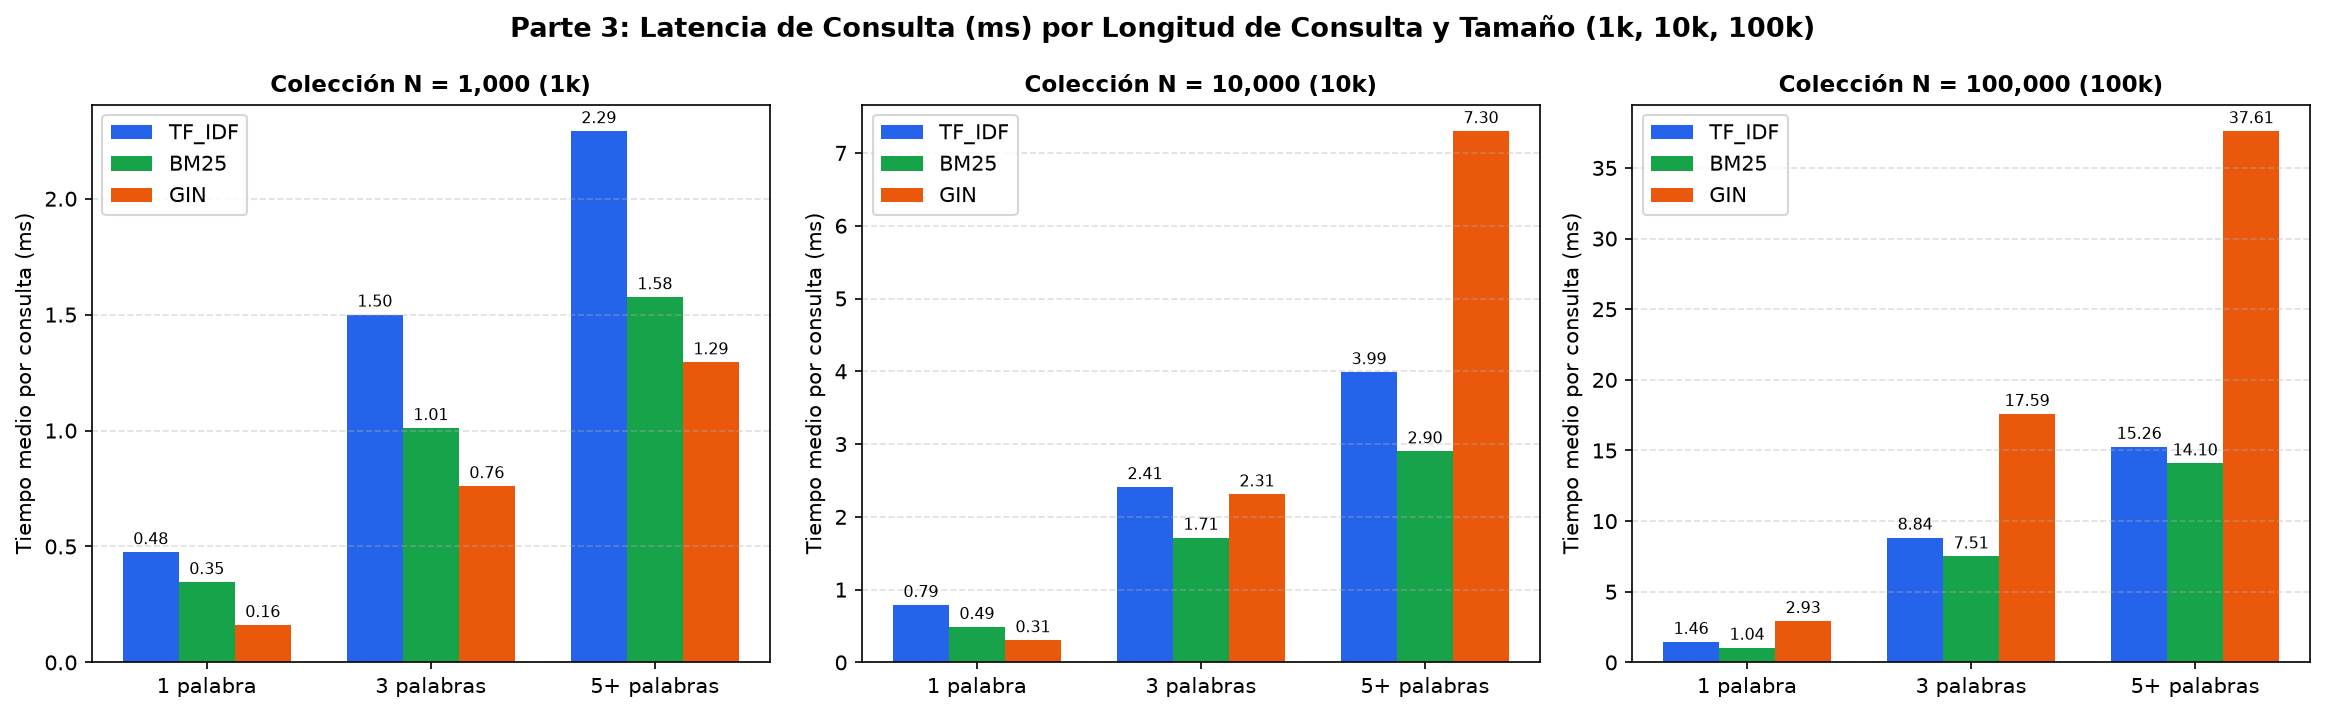
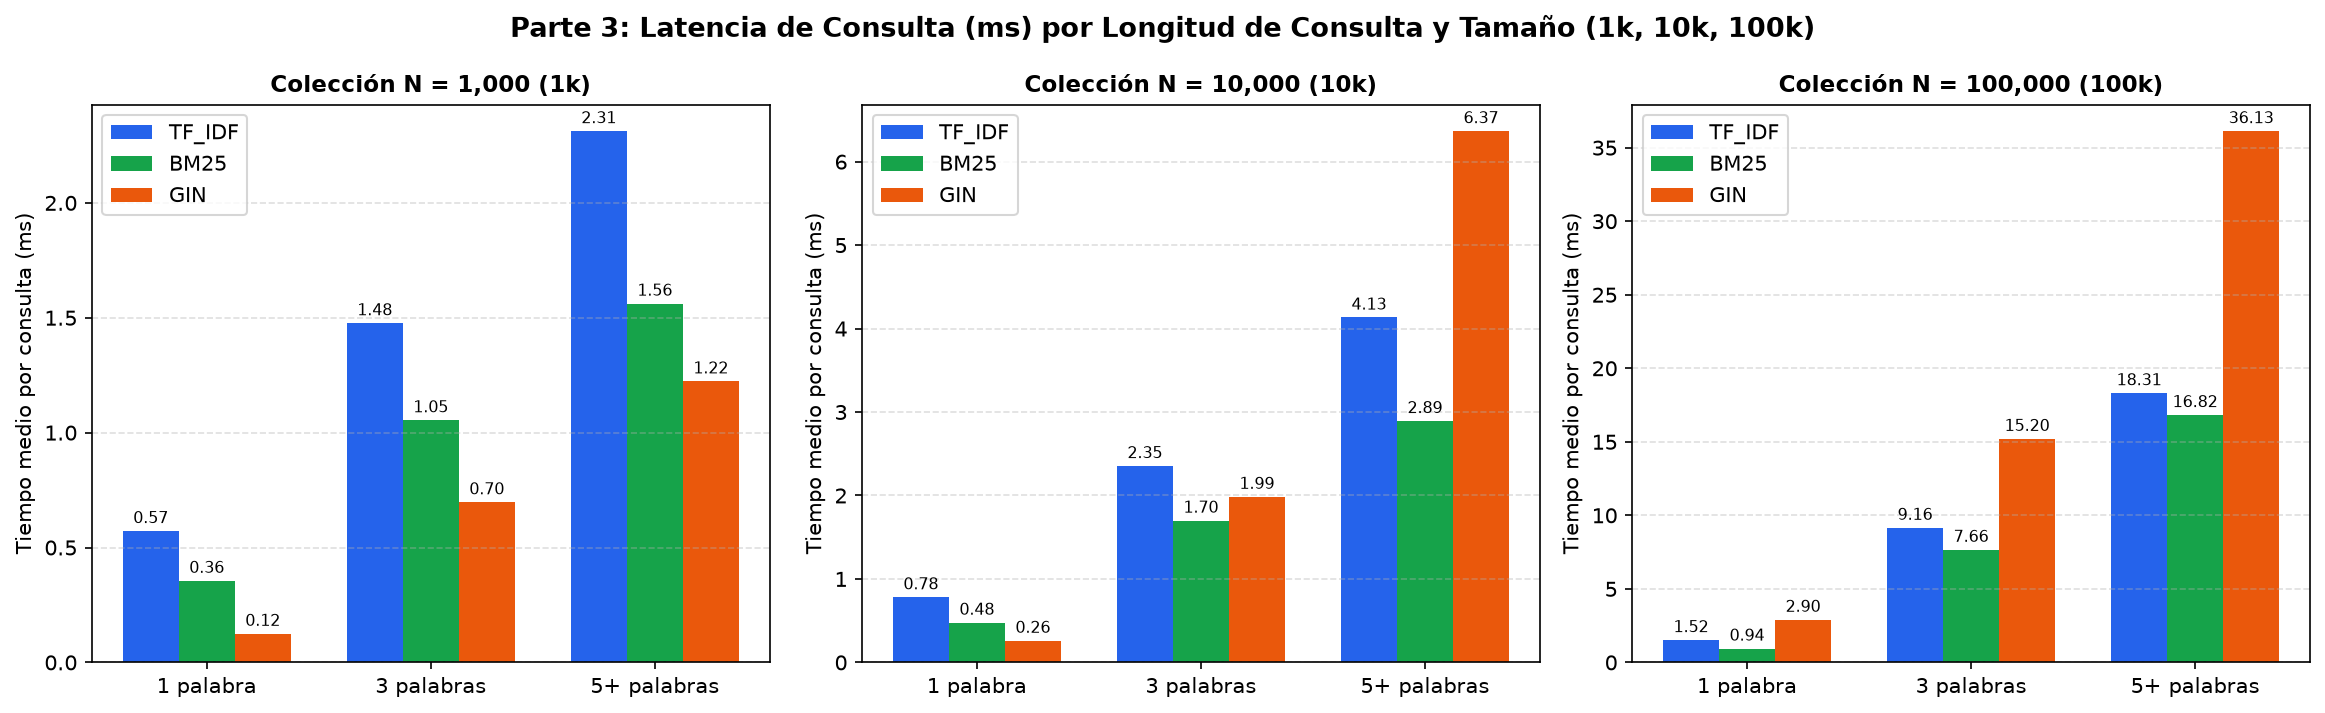
feat: last changes on frontend

diff --git a/query/conexion.py b/query/conexion.py
@@ -18,6 +18,7 @@ from common.record import Record
 from common.types import Column, DataType, Schema
 from engine.external import external_group_by, external_hash_join, external_sort
 from index.bm25 import BM25
+from index.vector.exacto import IndiceExacto
 from index.vector.metricas import puntaje as _puntaje_vectorial
 from index.vector.registro import CONSTRUCTORES as _CONSTRUCTORES_VECTORIALES
 from index.bplus_tree import BPlusTree, DuplicateKey
@@ -934,6 +935,13 @@ class Conexion:
             if indice.metodo == metodo:
                 self._configurar_vectorial(info, columna, indice)
                 return columna, indice, False
+        # IndiceHNSW e IndiceIVF heredan de IndiceExacto y conservan los vectores y RIDs,
+        # por lo que permiten ejecutar k-NN secuencial (EXACTO) sin cambiar el indice de la tabla.
+        if metodo == "EXACTO":
+            for columna, indice in disponibles:
+                if isinstance(indice, IndiceExacto):
+                    self._configurar_vectorial(info, columna, indice)
+                    return columna, indice, False
         # sin indice del metodo pedido se recorre todo con el k-NN exacto
         for columna, indice in disponibles:
             if indice.metodo == "EXACTO":
@@ -970,8 +978,13 @@ class Conexion:
 
         # con otros filtros en el WHERE se piden todos los vecinos y se recorta a k despues de filtrar
         con_filtros = len(condiciones) > 1
+        k_busqueda = len(indice) if con_filtros else similar.k
+        usar_exacto = (similar.metodo == "EXACTO") or es_respaldo
         t1 = time.perf_counter()
-        hallados = indice.buscar(vector, len(indice) if con_filtros else similar.k, metrica)
+        if usar_exacto and isinstance(indice, IndiceExacto):
+            hallados = IndiceExacto.buscar(indice, vector, k_busqueda, metrica)
+        else:
+            hallados = indice.buscar(vector, k_busqueda, metrica)
         t_buscar = time.perf_counter() - t1
 
         filas = []
@@ -994,7 +1007,7 @@ class Conexion:
             filas.reverse()
         orden_ya_resuelto = orden is None or orden_por_puntaje
 
-        usado = "k-NN exacto" if es_respaldo else similar.metodo
+        usado = "k-NN exacto" if usar_exacto else similar.metodo
         aviso = f" (no hay indice {similar.metodo}: se uso el k-NN exacto)" if es_respaldo else ""
         filtro = " + filtro WHERE" if con_filtros else ""
         self.plan.append(f"busqueda por similitud ({usado}) sobre '{info.nombre}.{columna}' (k {similar.k}; metrica {metrica}; archivo '{similar.archivo}'; {len(filas)} fila(s)){aviso}{filtro}")
@@ -1005,7 +1018,7 @@ class Conexion:
             "archivo_consulta": similar.archivo,
             "k": similar.k,
             "indice": similar.metodo,
-            "indice_usado": indice.metodo,
+            "indice_usado": "EXACTO" if usar_exacto else indice.metodo,
             "metrica": metrica,
             "key_column": info.key_column,
             "extraccion": {

diff --git a/bench/results/vector_resumen.md b/bench/results/vector_resumen.md
@@ -4,42 +4,42 @@
 
 | Dominio | N | Dim | Métrica | Índice | Parámetros | Construcción (s) | Memoria (MB) | Consulta (ms/q) | Speedup | Recall@10 | Origen |
 |:---|---:|---:|:---|:---|:---|---:|---:|---:|---:|---:|:---|
-| **imagen** | 1,000 | 512 | `euclidean` | **EXACTO** | `secuencial` | 0.0000 | 1.95 | 0.0748 | 1.00x | 1.0000 | BoVW real (SIFT) |
-| **imagen** | 1,000 | 512 | `euclidean` | **HNSW** | `M=16, efC=200, efS=32` | 0.0524 | 2.09 | 0.0242 | 3.09x | 0.9680 | BoVW real (SIFT) |
-| **imagen** | 1,000 | 512 | `euclidean` | **IVF** | `nlist=32, nprobe=4` | 0.0029 | 2.02 | 0.0230 | 3.25x | 0.9310 | BoVW real (SIFT) |
-| **imagen** | 1,000 | 512 | `cosine` | **EXACTO** | `secuencial` | 0.0000 | 1.95 | 0.0830 | 1.00x | 1.0000 | BoVW real (SIFT) |
-| **imagen** | 1,000 | 512 | `cosine` | **HNSW** | `M=16, efC=200, efS=16` | 0.0610 | 2.09 | 0.0234 | 3.55x | 0.8220 | BoVW real (SIFT) |
-| **imagen** | 1,000 | 512 | `cosine` | **IVF** | `nlist=32, nprobe=16` | 0.0023 | 2.02 | 0.0333 | 2.49x | 0.9830 | BoVW real (SIFT) |
-| **imagen** | 10,000 | 512 | `euclidean` | **EXACTO** | `secuencial` | 0.0000 | 19.53 | 0.6995 | 1.00x | 1.0000 | BoVW real (SIFT) |
-| **imagen** | 10,000 | 512 | `euclidean` | **HNSW** | `M=16, efC=200, efS=64` | 0.9483 | 20.91 | 0.0508 | 13.77x | 0.9110 | BoVW real (SIFT) |
-| **imagen** | 10,000 | 512 | `euclidean` | **IVF** | `nlist=100, nprobe=8` | 0.0232 | 19.80 | 0.1339 | 5.22x | 0.9740 | BoVW real (SIFT) |
-| **imagen** | 10,000 | 512 | `cosine` | **EXACTO** | `secuencial` | 0.0000 | 19.53 | 0.7059 | 1.00x | 1.0000 | BoVW real (SIFT) |
-| **imagen** | 10,000 | 512 | `cosine` | **HNSW** | `M=16, efC=200, efS=32` | 1.2939 | 20.91 | 0.0465 | 15.19x | 0.7500 | BoVW real (SIFT) |
-| **imagen** | 10,000 | 512 | `cosine` | **IVF** | `nlist=100, nprobe=16` | 0.0294 | 19.80 | 0.0811 | 8.71x | 0.8220 | BoVW real (SIFT) |
-| **imagen** | 100,000 | 512 | `euclidean` | **EXACTO** | `secuencial` | 0.0000 | 195.31 | 7.1313 | 1.00x | 1.0000 | BoVW real (SIFT) |
-| **imagen** | 100,000 | 512 | `euclidean` | **HNSW** | `M=16, efC=200, efS=256` | 28.1018 | 209.08 | 0.3617 | 19.72x | 0.6890 | BoVW real (SIFT) |
-| **imagen** | 100,000 | 512 | `euclidean` | **IVF** | `nlist=316, nprobe=32` | 0.4813 | 196.70 | 1.1905 | 5.99x | 0.8070 | BoVW real (SIFT) |
-| **imagen** | 100,000 | 512 | `cosine` | **EXACTO** | `secuencial` | 0.0000 | 195.31 | 7.0848 | 1.00x | 1.0000 | BoVW real (SIFT) |
-| **imagen** | 100,000 | 512 | `cosine` | **HNSW** | `M=16, efC=200, efS=128` | 38.0121 | 209.08 | 0.3959 | 17.90x | 0.7830 | BoVW real (SIFT) |
-| **imagen** | 100,000 | 512 | `cosine` | **IVF** | `nlist=316, nprobe=32` | 0.5142 | 196.70 | 0.4605 | 15.38x | 0.8080 | BoVW real (SIFT) |
-| **audio** | 1,000 | 256 | `euclidean` | **EXACTO** | `secuencial` | 0.0000 | 0.98 | 0.0424 | 1.00x | 1.0000 | BoAW real (MFCC) |
-| **audio** | 1,000 | 256 | `euclidean` | **HNSW** | `M=16, efC=200, efS=32` | 0.0417 | 1.11 | 0.0179 | 2.37x | 0.9600 | BoAW real (MFCC) |
-| **audio** | 1,000 | 256 | `euclidean` | **IVF** | `nlist=32, nprobe=4` | 0.0022 | 1.02 | 0.0150 | 2.84x | 0.9590 | BoAW real (MFCC) |
-| **audio** | 1,000 | 256 | `cosine` | **EXACTO** | `secuencial` | 0.0000 | 0.98 | 0.0499 | 1.00x | 1.0000 | BoAW real (MFCC) |
-| **audio** | 1,000 | 256 | `cosine` | **HNSW** | `M=16, efC=200, efS=16` | 0.0506 | 1.11 | 0.0190 | 2.63x | 0.8640 | BoAW real (MFCC) |
-| **audio** | 1,000 | 256 | `cosine` | **IVF** | `nlist=32, nprobe=16` | 0.0025 | 1.02 | 0.0214 | 2.33x | 0.9850 | BoAW real (MFCC) |
-| **audio** | 10,000 | 256 | `euclidean` | **EXACTO** | `secuencial` | 0.0000 | 9.77 | 0.2918 | 1.00x | 1.0000 | BoAW real (MFCC) |
-| **audio** | 10,000 | 256 | `euclidean` | **HNSW** | `M=16, efC=200, efS=64` | 0.7759 | 11.14 | 0.0371 | 7.87x | 0.9890 | BoAW real (MFCC) |
-| **audio** | 10,000 | 256 | `euclidean` | **IVF** | `nlist=100, nprobe=16` | 0.0167 | 9.94 | 0.0927 | 3.15x | 0.9950 | BoAW real (MFCC) |
-| **audio** | 10,000 | 256 | `cosine` | **EXACTO** | `secuencial` | 0.0000 | 9.77 | 0.2971 | 1.00x | 1.0000 | BoAW real (MFCC) |
-| **audio** | 10,000 | 256 | `cosine` | **HNSW** | `M=16, efC=200, efS=32` | 0.8765 | 11.14 | 0.0321 | 9.24x | 0.9890 | BoAW real (MFCC) |
-| **audio** | 10,000 | 256 | `cosine` | **IVF** | `nlist=100, nprobe=16` | 0.0160 | 9.94 | 0.0402 | 7.39x | 0.9540 | BoAW real (MFCC) |
-| **audio** | 100,000 | 256 | `euclidean` | **EXACTO** | `secuencial` | 0.0000 | 97.66 | 3.0207 | 1.00x | 1.0000 | BoAW real (MFCC) |
-| **audio** | 100,000 | 256 | `euclidean` | **HNSW** | `M=16, efC=200, efS=32` | 15.1696 | 111.42 | 0.0430 | 70.28x | 0.9590 | BoAW real (MFCC) |
-| **audio** | 100,000 | 256 | `euclidean` | **IVF** | `nlist=316, nprobe=32` | 0.3122 | 98.73 | 0.4286 | 7.05x | 0.9700 | BoAW real (MFCC) |
-| **audio** | 100,000 | 256 | `cosine` | **EXACTO** | `secuencial` | 0.0000 | 97.66 | 3.3944 | 1.00x | 1.0000 | BoAW real (MFCC) |
-| **audio** | 100,000 | 256 | `cosine` | **HNSW** | `M=16, efC=200, efS=32` | 16.0475 | 111.42 | 0.0459 | 73.89x | 0.9700 | BoAW real (MFCC) |
-| **audio** | 100,000 | 256 | `cosine` | **IVF** | `nlist=316, nprobe=4` | 0.3023 | 98.73 | 0.0364 | 93.16x | 0.9120 | BoAW real (MFCC) |
+| **imagen** | 1,000 | 512 | `euclidean` | **EXACTO** | `secuencial` | 0.0000 | 1.95 | 0.0787 | 1.00x | 1.0000 | BoVW real (SIFT) |
+| **imagen** | 1,000 | 512 | `euclidean` | **HNSW** | `M=16, efC=200, efS=32` | 0.0527 | 2.09 | 0.0218 | 3.60x | 0.9760 | BoVW real (SIFT) |
+| **imagen** | 1,000 | 512 | `euclidean` | **IVF** | `nlist=32, nprobe=4` | 0.0038 | 2.02 | 0.0232 | 3.40x | 0.9520 | BoVW real (SIFT) |
+| **imagen** | 1,000 | 512 | `cosine` | **EXACTO** | `secuencial` | 0.0000 | 1.95 | 0.0845 | 1.00x | 1.0000 | BoVW real (SIFT) |
+| **imagen** | 1,000 | 512 | `cosine` | **HNSW** | `M=16, efC=200, efS=16` | 0.0599 | 2.09 | 0.0216 | 3.91x | 0.9550 | BoVW real (SIFT) |
+| **imagen** | 1,000 | 512 | `cosine` | **IVF** | `nlist=32, nprobe=16` | 0.0023 | 2.02 | 0.0314 | 2.69x | 0.9910 | BoVW real (SIFT) |
+| **imagen** | 10,000 | 512 | `euclidean` | **EXACTO** | `secuencial` | 0.0000 | 19.53 | 0.6975 | 1.00x | 1.0000 | BoVW real (SIFT) |
+| **imagen** | 10,000 | 512 | `euclidean` | **HNSW** | `M=16, efC=200, efS=64` | 0.9477 | 20.91 | 0.0490 | 14.24x | 0.9640 | BoVW real (SIFT) |
+| **imagen** | 10,000 | 512 | `euclidean` | **IVF** | `nlist=100, nprobe=8` | 0.0246 | 19.80 | 0.1161 | 6.01x | 0.9720 | BoVW real (SIFT) |
+| **imagen** | 10,000 | 512 | `cosine` | **EXACTO** | `secuencial` | 0.0000 | 19.53 | 0.7179 | 1.00x | 1.0000 | BoVW real (SIFT) |
+| **imagen** | 10,000 | 512 | `cosine` | **HNSW** | `M=16, efC=200, efS=32` | 1.2537 | 20.91 | 0.0415 | 17.32x | 0.9490 | BoVW real (SIFT) |
+| **imagen** | 10,000 | 512 | `cosine` | **IVF** | `nlist=100, nprobe=16` | 0.0249 | 19.80 | 0.0689 | 10.42x | 0.9490 | BoVW real (SIFT) |
+| **imagen** | 100,000 | 512 | `euclidean` | **EXACTO** | `secuencial` | 0.0000 | 195.31 | 6.9082 | 1.00x | 1.0000 | BoVW real (SIFT) |
+| **imagen** | 100,000 | 512 | `euclidean` | **HNSW** | `M=16, efC=200, efS=256` | 24.8400 | 209.08 | 0.4428 | 15.60x | 0.9540 | BoVW real (SIFT) |
+| **imagen** | 100,000 | 512 | `euclidean` | **IVF** | `nlist=316, nprobe=32` | 0.4266 | 196.70 | 1.0137 | 6.81x | 0.9810 | BoVW real (SIFT) |
+| **imagen** | 100,000 | 512 | `cosine` | **EXACTO** | `secuencial` | 0.0000 | 195.31 | 6.9394 | 1.00x | 1.0000 | BoVW real (SIFT) |
+| **imagen** | 100,000 | 512 | `cosine` | **HNSW** | `M=16, efC=200, efS=128` | 35.4688 | 209.08 | 0.3125 | 22.20x | 0.9610 | BoVW real (SIFT) |
+| **imagen** | 100,000 | 512 | `cosine` | **IVF** | `nlist=316, nprobe=32` | 0.4026 | 196.70 | 0.3643 | 19.05x | 0.9410 | BoVW real (SIFT) |
+| **audio** | 1,000 | 256 | `euclidean` | **EXACTO** | `secuencial` | 0.0000 | 0.98 | 0.0464 | 1.00x | 1.0000 | BoAW real (MFCC) |
+| **audio** | 1,000 | 256 | `euclidean` | **HNSW** | `M=16, efC=200, efS=32` | 0.0391 | 1.11 | 0.0140 | 3.33x | 0.9000 | BoAW real (MFCC) |
+| **audio** | 1,000 | 256 | `euclidean` | **IVF** | `nlist=32, nprobe=4` | 0.0018 | 1.02 | 0.0158 | 2.93x | 0.8000 | BoAW real (MFCC) |
+| **audio** | 1,000 | 256 | `cosine` | **EXACTO** | `secuencial` | 0.0000 | 0.98 | 0.0508 | 1.00x | 1.0000 | BoAW real (MFCC) |
+| **audio** | 1,000 | 256 | `cosine` | **HNSW** | `M=16, efC=200, efS=16` | 0.0493 | 1.11 | 0.0160 | 3.18x | 1.0000 | BoAW real (MFCC) |
+| **audio** | 1,000 | 256 | `cosine` | **IVF** | `nlist=32, nprobe=16` | 0.0016 | 1.02 | 0.0210 | 2.41x | 1.0000 | BoAW real (MFCC) |
+| **audio** | 10,000 | 256 | `euclidean` | **EXACTO** | `secuencial` | 0.0000 | 9.77 | 0.2450 | 1.00x | 1.0000 | BoAW real (MFCC) |
+| **audio** | 10,000 | 256 | `euclidean` | **HNSW** | `M=16, efC=200, efS=64` | 0.7440 | 11.14 | 0.0198 | 12.35x | 1.0000 | BoAW real (MFCC) |
+| **audio** | 10,000 | 256 | `euclidean` | **IVF** | `nlist=100, nprobe=16` | 0.0154 | 9.94 | 0.0912 | 2.68x | 0.9000 | BoAW real (MFCC) |
+| **audio** | 10,000 | 256 | `cosine` | **EXACTO** | `secuencial` | 0.0000 | 9.77 | 0.3582 | 1.00x | 1.0000 | BoAW real (MFCC) |
+| **audio** | 10,000 | 256 | `cosine` | **HNSW** | `M=16, efC=200, efS=32` | 0.8644 | 11.14 | 0.0199 | 17.99x | 1.0000 | BoAW real (MFCC) |
+| **audio** | 10,000 | 256 | `cosine` | **IVF** | `nlist=100, nprobe=16` | 0.0149 | 9.94 | 0.0363 | 9.88x | 1.0000 | BoAW real (MFCC) |
+| **audio** | 100,000 | 256 | `euclidean` | **EXACTO** | `secuencial` | 0.0000 | 97.66 | 2.7118 | 1.00x | 1.0000 | BoAW real (MFCC) |
+| **audio** | 100,000 | 256 | `euclidean` | **HNSW** | `M=16, efC=200, efS=32` | 13.5672 | 111.42 | 0.0127 | 213.40x | 1.0000 | BoAW real (MFCC) |
+| **audio** | 100,000 | 256 | `euclidean` | **IVF** | `nlist=316, nprobe=32` | 0.3011 | 98.73 | 0.4149 | 6.54x | 1.0000 | BoAW real (MFCC) |
+| **audio** | 100,000 | 256 | `cosine` | **EXACTO** | `secuencial` | 0.0000 | 97.66 | 3.4365 | 1.00x | 1.0000 | BoAW real (MFCC) |
+| **audio** | 100,000 | 256 | `cosine` | **HNSW** | `M=16, efC=200, efS=32` | 14.6503 | 111.42 | 0.0193 | 178.13x | 1.0000 | BoAW real (MFCC) |
+| **audio** | 100,000 | 256 | `cosine` | **IVF** | `nlist=316, nprobe=4` | 0.2704 | 98.73 | 0.0316 | 108.66x | 1.0000 | BoAW real (MFCC) |
 
 ## 2. Comparación de Índices Vectoriales: Ventajas, Desventajas y Cuándo Usar Cada Uno
 

diff --git a/bench/results/texto_resumen.md b/bench/results/texto_resumen.md
@@ -6,44 +6,44 @@
 
 | N | Índice Invertido | Construcción (s) | Espacio en Disco (MB) | Términos | Postings | Modo |
 |---:|:---|---:|---:|---:|---:|:---|
-| 1,000 | **SPIMI (Propio)** | 0.244 | 0.90 | 12,879 | 82,538 | SPIMI nativo |
-| 1,000 | **GIN (PostgreSQL)** | 0.040 | 1.14 | 12,879 | 82,538 | PostgreSQL real |
-| 10,000 | **SPIMI (Propio)** | 2.085 | 7.66 | 49,643 | 856,786 | SPIMI nativo |
-| 10,000 | **GIN (PostgreSQL)** | 0.246 | 6.87 | 49,643 | 856,786 | PostgreSQL real |
-| 100,000 | **SPIMI (Propio)** | 20.125 | 70.82 | 192,011 | 8,554,203 | SPIMI nativo |
-| 100,000 | **GIN (PostgreSQL)** | 2.793 | 49.20 | 192,011 | 8,554,203 | PostgreSQL real |
+| 1,000 | **SPIMI (Propio)** | 0.234 | 0.90 | 12,876 | 82,534 | SPIMI nativo |
+| 1,000 | **GIN (PostgreSQL)** | 0.082 | 1.14 | 12,876 | 82,534 | PostgreSQL real |
+| 10,000 | **SPIMI (Propio)** | 1.938 | 7.66 | 49,635 | 856,764 | SPIMI nativo |
+| 10,000 | **GIN (PostgreSQL)** | 0.244 | 6.87 | 49,635 | 856,764 | PostgreSQL real |
+| 100,000 | **SPIMI (Propio)** | 21.649 | 70.82 | 191,993 | 8,553,973 | SPIMI nativo |
+| 100,000 | **GIN (PostgreSQL)** | 2.271 | 49.20 | 191,993 | 8,553,973 | PostgreSQL real |
 
 ## 2. Tiempo de Consulta y Relevancia (Precision@10 y Recall@10)
 
 | N | Longitud Consulta | Motor | Latencia Media (ms) | Mediana P50 (ms) | Precision@10 | Recall@10 |
 |---:|:---|:---|---:|---:|---:|---:|
-| 1,000 | 1 palabra | **TF_IDF** | 0.476 | 0.530 | 0.387 | 0.644 |
-| 1,000 | 1 palabra | **BM25** | 0.347 | 0.362 | 0.387 | 0.644 |
-| 1,000 | 1 palabra | **GIN** | 0.161 | 0.112 | 0.370 | 0.617 |
-| 1,000 | 3 palabras | **TF_IDF** | 1.501 | 1.605 | 0.447 | 0.738 |
-| 1,000 | 3 palabras | **BM25** | 1.011 | 1.075 | 0.437 | 0.721 |
-| 1,000 | 3 palabras | **GIN** | 0.761 | 0.417 | 0.327 | 0.541 |
-| 1,000 | 5+ palabras | **TF_IDF** | 2.292 | 2.288 | 0.507 | 0.844 |
-| 1,000 | 5+ palabras | **BM25** | 1.576 | 1.533 | 0.510 | 0.850 |
-| 1,000 | 5+ palabras | **GIN** | 1.295 | 1.242 | 0.340 | 0.567 |
-| 10,000 | 1 palabra | **TF_IDF** | 0.789 | 0.776 | 0.363 | 0.606 |
-| 10,000 | 1 palabra | **BM25** | 0.488 | 0.478 | 0.360 | 0.600 |
-| 10,000 | 1 palabra | **GIN** | 0.306 | 0.148 | 0.327 | 0.544 |
-| 10,000 | 3 palabras | **TF_IDF** | 2.410 | 2.337 | 0.300 | 0.499 |
-| 10,000 | 3 palabras | **BM25** | 1.714 | 1.593 | 0.337 | 0.560 |
-| 10,000 | 3 palabras | **GIN** | 2.310 | 1.181 | 0.203 | 0.338 |
-| 10,000 | 5+ palabras | **TF_IDF** | 3.989 | 3.979 | 0.357 | 0.594 |
-| 10,000 | 5+ palabras | **BM25** | 2.902 | 2.830 | 0.360 | 0.600 |
-| 10,000 | 5+ palabras | **GIN** | 7.300 | 3.471 | 0.200 | 0.333 |
-| 100,000 | 1 palabra | **TF_IDF** | 1.457 | 1.013 | 0.280 | 0.467 |
-| 100,000 | 1 palabra | **BM25** | 1.045 | 0.665 | 0.277 | 0.461 |
-| 100,000 | 1 palabra | **GIN** | 2.935 | 0.245 | 0.260 | 0.433 |
-| 100,000 | 3 palabras | **TF_IDF** | 8.836 | 6.812 | 0.167 | 0.278 |
-| 100,000 | 3 palabras | **BM25** | 7.510 | 5.624 | 0.170 | 0.283 |
-| 100,000 | 3 palabras | **GIN** | 17.592 | 3.015 | 0.117 | 0.194 |
-| 100,000 | 5+ palabras | **TF_IDF** | 15.264 | 13.671 | 0.143 | 0.239 |
-| 100,000 | 5+ palabras | **BM25** | 14.096 | 12.045 | 0.183 | 0.306 |
-| 100,000 | 5+ palabras | **GIN** | 37.610 | 18.813 | 0.113 | 0.189 |
+| 1,000 | 1 palabra | **TF_IDF** | 0.572 | 0.549 | 0.387 | 0.644 |
+| 1,000 | 1 palabra | **BM25** | 0.355 | 0.380 | 0.387 | 0.644 |
+| 1,000 | 1 palabra | **GIN** | 0.125 | 0.097 | 0.370 | 0.617 |
+| 1,000 | 3 palabras | **TF_IDF** | 1.476 | 1.594 | 0.447 | 0.738 |
+| 1,000 | 3 palabras | **BM25** | 1.054 | 1.134 | 0.437 | 0.721 |
+| 1,000 | 3 palabras | **GIN** | 0.697 | 0.381 | 0.327 | 0.541 |
+| 1,000 | 5+ palabras | **TF_IDF** | 2.312 | 2.298 | 0.507 | 0.844 |
+| 1,000 | 5+ palabras | **BM25** | 1.562 | 1.559 | 0.510 | 0.850 |
+| 1,000 | 5+ palabras | **GIN** | 1.223 | 1.129 | 0.340 | 0.567 |
+| 10,000 | 1 palabra | **TF_IDF** | 0.781 | 0.735 | 0.363 | 0.606 |
+| 10,000 | 1 palabra | **BM25** | 0.477 | 0.481 | 0.360 | 0.600 |
+| 10,000 | 1 palabra | **GIN** | 0.260 | 0.105 | 0.327 | 0.544 |
+| 10,000 | 3 palabras | **TF_IDF** | 2.353 | 2.250 | 0.300 | 0.499 |
+| 10,000 | 3 palabras | **BM25** | 1.700 | 1.549 | 0.337 | 0.560 |
+| 10,000 | 3 palabras | **GIN** | 1.985 | 1.047 | 0.203 | 0.338 |
+| 10,000 | 5+ palabras | **TF_IDF** | 4.133 | 4.043 | 0.357 | 0.594 |
+| 10,000 | 5+ palabras | **BM25** | 2.893 | 2.847 | 0.360 | 0.600 |
+| 10,000 | 5+ palabras | **GIN** | 6.367 | 2.789 | 0.200 | 0.333 |
+| 100,000 | 1 palabra | **TF_IDF** | 1.522 | 1.012 | 0.280 | 0.467 |
+| 100,000 | 1 palabra | **BM25** | 0.945 | 0.642 | 0.277 | 0.461 |
+| 100,000 | 1 palabra | **GIN** | 2.905 | 0.236 | 0.260 | 0.433 |
+| 100,000 | 3 palabras | **TF_IDF** | 9.158 | 6.446 | 0.167 | 0.278 |
+| 100,000 | 3 palabras | **BM25** | 7.662 | 5.431 | 0.170 | 0.283 |
+| 100,000 | 3 palabras | **GIN** | 15.204 | 2.910 | 0.117 | 0.194 |
+| 100,000 | 5+ palabras | **TF_IDF** | 18.311 | 12.802 | 0.143 | 0.239 |
+| 100,000 | 5+ palabras | **BM25** | 16.823 | 10.841 | 0.183 | 0.306 |
+| 100,000 | 5+ palabras | **GIN** | 36.128 | 17.735 | 0.113 | 0.189 |
 
 ## 3. Ventajas, Desventajas y Cuándo Usar Cada Técnica
 
